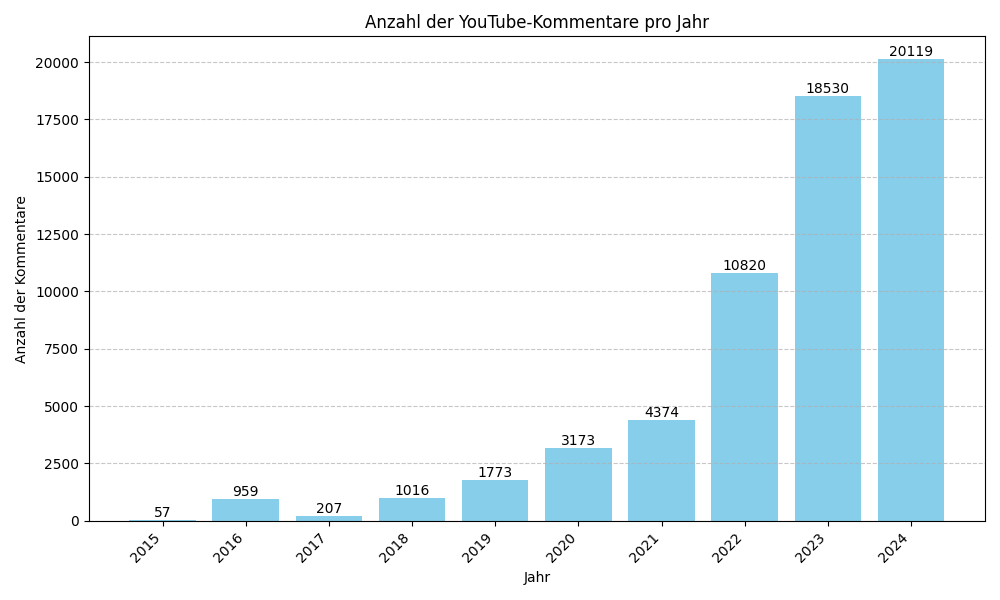
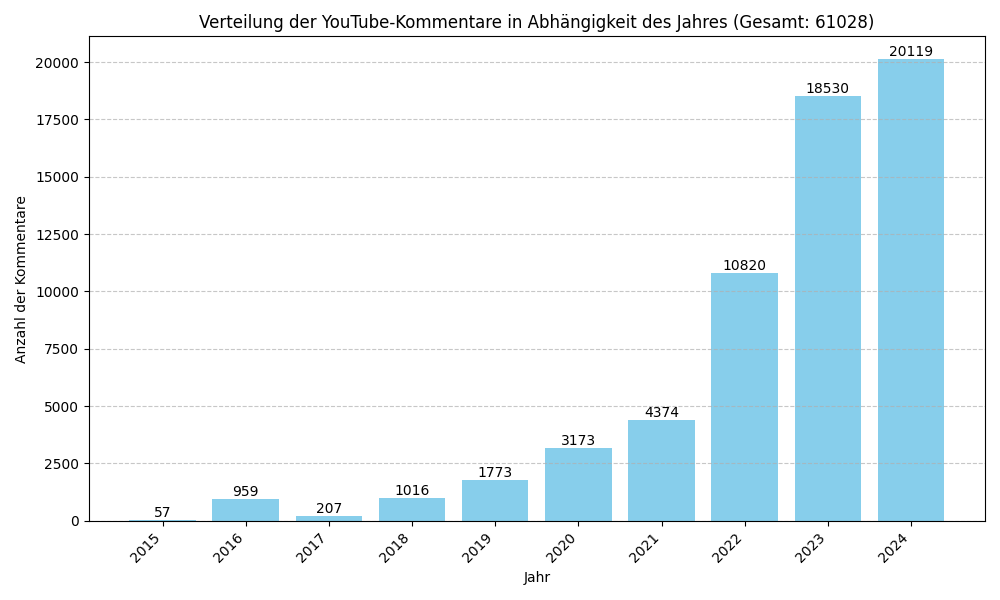
workspace: Update comment visualization

Changed region(s): [[0.186, 0.03, 0.682, 0.06], [0.713, 0.03, 0.868, 0.06]]

diff --git a/workspace/youtube-scraper/diagramm.py b/workspace/youtube-scraper/diagramm.py
@@ -8,6 +8,7 @@ df['date'] = pd.to_datetime(df['date'])
 df['year'] = df['date'].dt.year
 
 comments_per_year = df.groupby('year').size()
+total_comments = comments_per_year.sum()
 plt.figure(figsize=(10, 6))
 bars = plt.bar(comments_per_year.index, comments_per_year.values, color='skyblue')
 
@@ -15,7 +16,7 @@ for bar, count in zip(bars, comments_per_year.values):
     plt.text(bar.get_x() + bar.get_width()/2, bar.get_height(), count,
              ha='center', va='bottom', fontsize=10)
 
-plt.title('Anzahl der YouTube-Kommentare pro Jahr')
+plt.title(f'Verteilung der YouTube-Kommentare in Abhängigkeit des Jahres (Gesamt: {total_comments})')
 plt.xlabel('Jahr')
 plt.ylabel('Anzahl der Kommentare')
 plt.xticks(comments_per_year.index, rotation=45, ha='right')
